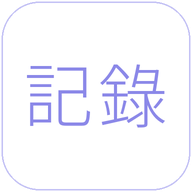
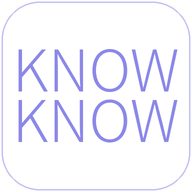
Add files via upload

Changed region(s): [[0.0938, 0.25, 0.9375, 0.75]]

diff --git a/index.html b/index.html
@@ -5,10 +5,10 @@
 <meta name="viewport" content="width=device-width, initial-scale=1.0, maximum-scale=1.0, viewport-fit=cover">
 <meta name="apple-mobile-web-app-capable" content="yes">
 <meta name="apple-mobile-web-app-status-bar-style" content="default">
-<meta name="apple-mobile-web-app-title" content="記錄">
+<meta name="apple-mobile-web-app-title" content="KNOW KNOW">
 <meta name="theme-color" content="#7B77E9">
 <link rel="manifest" href="manifest.json">
-<title>記錄</title>
+<title>KNOW KNOW</title>
 <link rel="stylesheet" href="https://cdn.jsdelivr.net/npm/@tabler/icons-webfont@3.19.0/dist/tabler-icons.min.css">
 <style>
 *,*::before,*::after{box-sizing:border-box;margin:0;padding:0}
@@ -710,7 +710,7 @@ let TAGS=[
   {id:'health',label:'건강',     color:'#B8C27A',bg:'#F4F6E8', children:[]},
   {id:'idea',  label:'아이디어', color:'#CC8B8B',bg:'#F8EAEA', children:[]},
 ];
-let tagNid=100;
+function newTagId(){return 'tag_'+Date.now()+'_'+Math.random().toString(36).slice(2,6);}
 const T=new Date();
 let calD=new Date(T.getFullYear(),T.getMonth(),1);
 let bcD =new Date(T.getFullYear(),T.getMonth(),1);
@@ -1146,7 +1146,7 @@ function renderTags(){
         const name=inp.value.trim();
         if(!name)return;
         const p=TPAL[selPalI];
-        const newTag={id:'tag_'+(tagNid++),label:name,color:p.color,bg:p.bg};
+        const newTag={id:newTagId(),label:name,color:p.color,bg:p.bg};
         if(type==='root'){
           TAGS.push({...newTag,children:[]});
         } else {
@@ -1628,7 +1628,7 @@ function renderATags(){
 function insertM(obj,add=true){
   const body=$$('ed-body'),cont=$$('ed-content');
   if(obj.type==='link'){insertLP(obj.url,obj.title,false);return;}
-  if(obj.type==='youtube'){insertYoutube(obj.ytId);return;}
+  if(obj.type==='youtube'){insertYoutube(obj.ytId, add);return;}
   const bl=document.createElement('div');bl.className='m-block';
   if(obj.type==='image'){const img=document.createElement('img');img.src=obj.src;img.alt='사진';bl.appendChild(img);}
   else{const vid=document.createElement('video');vid.src=obj.src;vid.controls=true;bl.appendChild(vid);}
@@ -1659,7 +1659,7 @@ function getYoutubeId(url){
   return null;
 }
 
-function insertYoutube(ytId){
+function insertYoutube(ytId, add=true){
   const body=$$('ed-body'),cont=$$('ed-content');
   if(!body)return;
   // 중복 삽입 방지
@@ -1680,7 +1680,7 @@ function insertYoutube(ytId){
   };
   wrap.appendChild(rm);
   body.insertBefore(wrap,cont);
-  if(edEnt){
+  if(add&&edEnt){
     if(!edEnt.media)edEnt.media=[];
     edEnt.media.push({type:'youtube',ytId});
   }
@@ -1947,7 +1947,7 @@ function openTagModal(){
   const cl=$$('tp-child-list');
   const cs=$$('tp-child-section');
   const clbl=$$('tp-child-label');
-  let openParent=null; // 현재 열린 부모
+  let openParentId=null;
 
   function render(){
     // 부모 렌더
@@ -1958,69 +1958,68 @@ function openTagModal(){
       return `<button class="tp-btn${on?' on':''}" data-id="${t.id}" style="${on?'background:'+tc.bg+';color:'+tc.color+';border-color:'+tc.color+';':''}">${t.label}</button>`;
     }).join('');
 
-    pl.querySelectorAll('.tp-btn').forEach(btn=>{
-      btn.onclick=()=>{
-        const tid=btn.dataset.id;
-        const t=TAGS.find(x=>x.id===tid);
-        const childSel=t&&t.children&&t.children.some(c=>edTags.includes(c.id));
-        const directSel=edTags.includes(tid);
-
-        if(directSel||childSel){
-          // 해제
-          edTags=edTags.filter(x=>x!==tid);
-          if(t&&t.children)t.children.forEach(c=>{edTags=edTags.filter(x=>x!==c.id)});
-          openParent=null;
-          cs.style.display='none';
-        } else {
-          // 선택
-          edTags.push(tid);
-          openParent=t;
-        }
-        render();
-        // 하위 패널 유지
-        if(openParent&&openParent.children&&openParent.children.length>0){
-          cs.style.display='block';
-        }
-      };
-    });
-
     // 자식 렌더
+    const openParent=openParentId?TAGS.find(t=>t.id===openParentId):null;
     if(openParent&&openParent.children&&openParent.children.length>0){
       clbl.textContent=openParent.label+' › 하위태그 선택';
       cl.innerHTML=openParent.children.map(c=>{
         const tc=getTagColor(c.id);
         const on=edTags.includes(c.id);
-        return `<button class="tp-btn${on?' on':''}" data-id="${c.id}" style="${on?'background:'+tc.bg+';color:'+tc.color+';border-color:'+tc.color+';':''}">${c.label}</button>`;
+        return `<button class="tp-btn${on?' on':''}" data-id="${c.id}" data-parent="${openParentId}" style="${on?'background:'+tc.bg+';color:'+tc.color+';border-color:'+tc.color+';':''}">${c.label}</button>`;
       }).join('');
-      cl.querySelectorAll('.tp-btn').forEach(btn=>{
-        btn.onclick=()=>{
-          const cid=btn.dataset.id;
-          if(edTags.includes(cid)){
-            edTags=edTags.filter(x=>x!==cid);
-          } else {
-            // 하위 선택 시 상위 제거
-            edTags=edTags.filter(x=>x!==openParent.id);
-            edTags.push(cid);
-          }
-          render();
-          cs.style.display='block';
-        };
-      });
+      cs.style.display='block';
+    } else {
+      cs.style.display='none';
+      cl.innerHTML='';
     }
   }
 
-  // 초기 openParent 설정 (이미 선택된 태그 기준)
+  // 이벤트 위임 — 부모
+  pl.onclick=e=>{
+    const btn=e.target.closest('.tp-btn');
+    if(!btn)return;
+    const tid=btn.getAttribute('data-id');
+    if(!tid)return;
+    const t=TAGS.find(x=>x.id===tid);
+    if(!t)return;
+    const childSel=t.children&&t.children.some(c=>edTags.includes(c.id));
+    const directSel=edTags.includes(tid);
+    if(directSel||childSel){
+      edTags=edTags.filter(x=>x!==tid);
+      if(t.children)t.children.forEach(c=>{edTags=edTags.filter(x=>x!==c.id)});
+      openParentId=null;
+    } else {
+      edTags.push(tid);
+      openParentId=t.children&&t.children.length>0?tid:null;
+    }
+    render();
+  };
+
+  // 이벤트 위임 — 자식
+  cl.onclick=e=>{
+    const btn=e.target.closest('.tp-btn');
+    if(!btn)return;
+    const cid=btn.getAttribute('data-id');
+    const pid=btn.getAttribute('data-parent');
+    if(!cid||!pid)return;
+    if(edTags.includes(cid)){
+      edTags=edTags.filter(x=>x!==cid);
+    } else {
+      edTags=edTags.filter(x=>x!==pid); // 상위 제거
+      edTags.push(cid);
+    }
+    render();
+  };
+
+  // 초기 openParent 설정
   for(const t of TAGS){
     if(t.children&&t.children.some(c=>edTags.includes(c.id))){
-      openParent=t;cs.style.display='block';break;
+      openParentId=t.id;break;
     }
     if(edTags.includes(t.id)&&t.children&&t.children.length>0){
-      openParent=t;cs.style.display='block';break;
+      openParentId=t.id;break;
     }
   }
-  if(!openParent)cs.style.display='none';
-
-  render();
 
   render();
   $$('m-tag').classList.add('show');
@@ -2112,7 +2111,7 @@ function renderTMG(){
     if(!name||!name.trim())return;
     const p=TPAL[tpalI];
     if(!TAGS[pi].children)TAGS[pi].children=[];
-    TAGS[pi].children.push({id:'tag_'+(tagNid++),label:name.trim(),color:p.color,bg:p.bg});
+    TAGS[pi].children.push({id:newTagId(),label:name.trim(),color:p.color,bg:p.bg});
     expandedTags.add(t.id);
     renderTMG();renderMain();
   });
@@ -2134,7 +2133,7 @@ function renderNTC(){
 }
 $$('tmg-close').onclick=()=>$$('m-tmg').classList.remove('show');
 $$('m-tmg').onclick=e=>{if(e.target===e.currentTarget)$$('m-tmg').classList.remove('show')};
-$$('new-tag-add').onclick=()=>{const n=$$('new-tag-n').value.trim();if(!n)return;const p=TPAL[tpalI];TAGS.push({id:'tag_'+(tagNid++),label:n,color:p.color,bg:p.bg,children:[]});$$('new-tag-n').value='';renderTMG();renderMain()};
+$$('new-tag-add').onclick=()=>{const n=$$('new-tag-n').value.trim();if(!n)return;const p=TPAL[tpalI];TAGS.push({id:newTagId(),label:n,color:p.color,bg:p.bg,children:[]});$$('new-tag-n').value='';renderTMG();renderMain()};
 $$('new-tag-n').onkeydown=e=>{if(e.key==='Enter')$$('new-tag-add').click()};
 
 // 뷰 버튼
@@ -2329,7 +2328,8 @@ get(ref(db,'meta/tags')).then(snap=>{
   if(snap.exists()){
     try{
       TAGS=migrateTagColors(JSON.parse(snap.val()));
-      dbSaveTags(TAGS); // 마이그레이션된 색상 즉시 저장
+      dbSaveTags(TAGS);
+
       renderTags();
     }catch(e){}
   }
